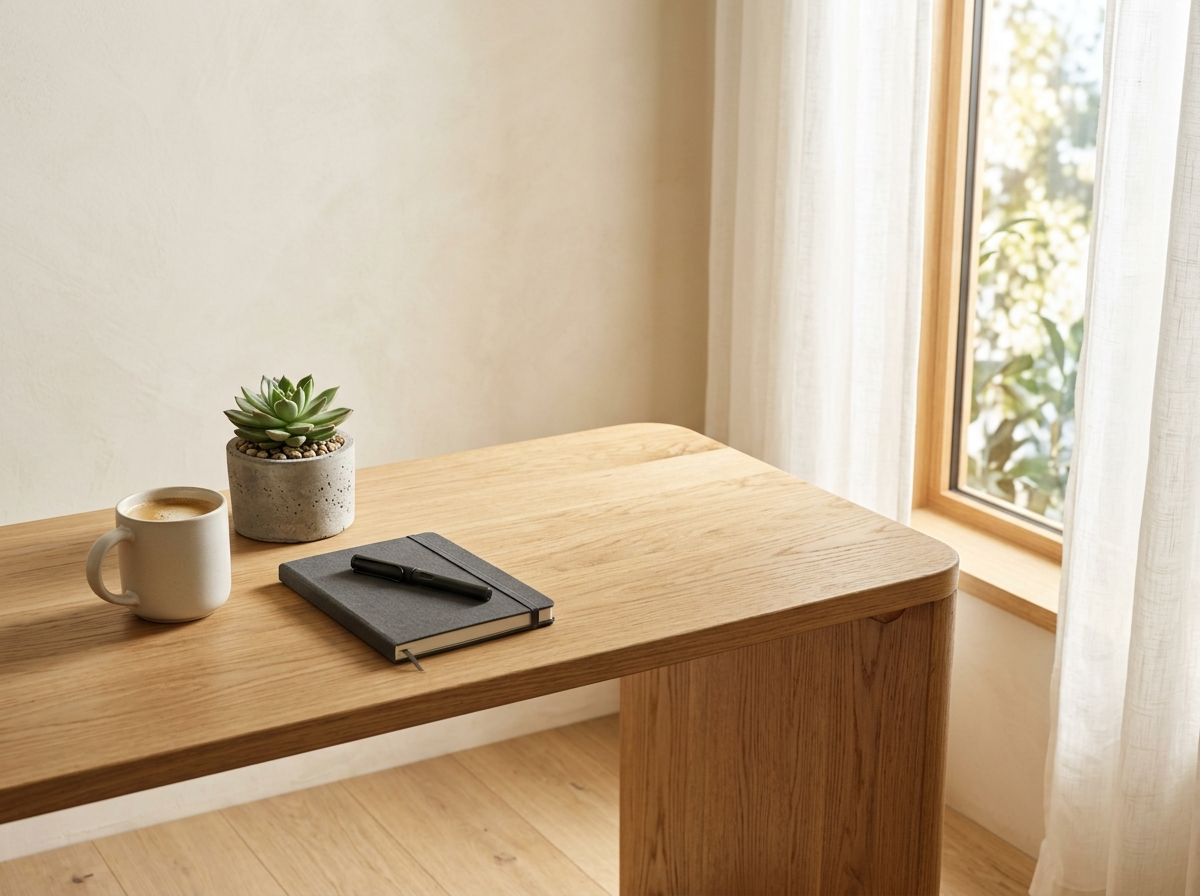
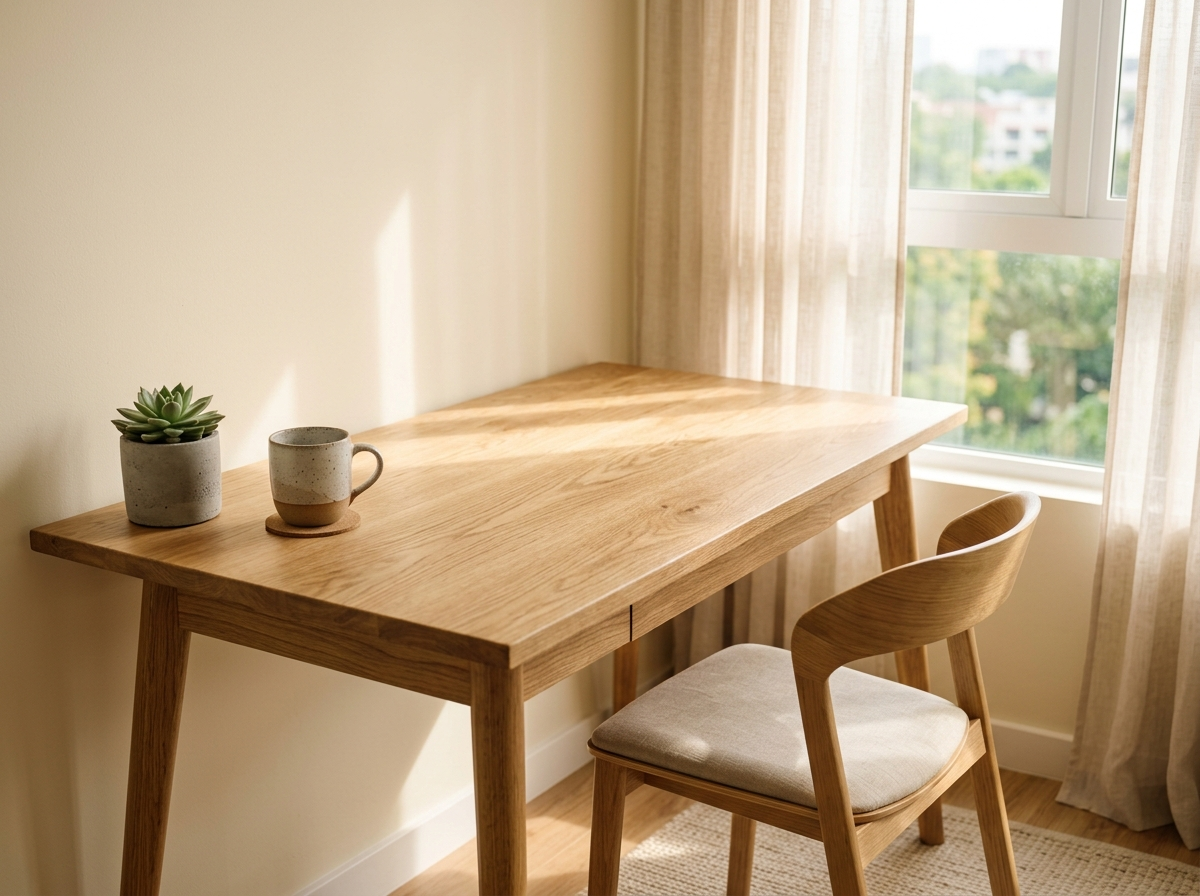
fix(mockup): clean desk background without notebook, angle perspective adjustment, ceiling safe margin scale algorithm

diff --git a/src/services/roomMockupRenderer.js b/src/services/roomMockupRenderer.js
@@ -6,30 +6,31 @@ const crypto = require('crypto');
 
 /**
  * Cấu hình 2 Bối Cảnh Chuẩn Vàng Cố Định Trong Render Server (Zero-Config)
- * - Tường phòng khách: Mảng tường trống phía trên sofa kem cong, ánh sáng từ cửa sổ lớn bên trái.
- * - Mặt bàn làm việc: Bàn gỗ sồi Scandinavian, ánh sáng từ cửa sổ bên phải, đáy khung tựa trên mặt bàn.
+ * - Tường phòng khách: Mảng tường trống phía trên sofa kem cong, thuật toán tự động khống chế trần nhà.
+ * - Mặt bàn làm việc: Bàn gỗ sồi Scandinavian, mặt bàn sạch không có sổ, góc xoay phối cảnh ăn khớp thớ gỗ.
  */
 const PRESETS = {
     wall: {
         bgPath: path.join(__dirname, '../assets/backgrounds/wall_clean.jpg'),
-        anchorXRatio: 0.50, // Căn giữa phòng khách
-        anchorYRatio: 0.29, // Treo thông thoáng phía trên sofa (cách sofa 65px)
-        maxWRatio: 0.36,    // Chiều rộng tối đa 36% ảnh nền
-        maxHRatio: 0.42,    // Chiều cao tối đa 42% ảnh nền
-        shadowDx: 12,       // Ánh sáng từ cửa sổ lớn bên trái
+        minCeilingMargin: 150, // Khoảng cách trần nhà an toàn (mép trên tranh luôn >= 150px)
+        maxSofaMargin: 520,    // Khoảng cách an toàn lưng ghế sofa (mép dưới tranh luôn <= 520px)
+        maxSafeWidth: 420,     // Chiều rộng tối đa an toàn giữa cửa sổ và cây cảnh
+        anchorXRatio: 0.50,    // Chính giữa bề ngang phòng khách
+        shadowDx: 12,          // Ánh sáng tự nhiên từ cửa sổ lớn bên trái
         shadowDy: 18,
-        shadowBlur: 24,
+        shadowBlur: 20,
         shadowOpacity: 0.35
     },
     desk: {
         bgPath: path.join(__dirname, '../assets/backgrounds/desk_clean.jpg'),
-        anchorXRatio: 0.48, // Nằm giữa mặt bàn
-        bottomYRatio: 0.64, // Đáy khung tựa lùi sâu vào giữa mặt bàn gỗ sồi
-        maxWRatio: 0.24,    // Tỷ lệ khung để bàn thanh lịch (24% ảnh)
-        maxHRatio: 0.40,    // Chiều cao tối đa khung để bàn
-        shadowDx: -10,      // Ánh sáng từ cửa sổ bên phải
+        anchorXRatio: 0.44,    // Đặt trên mặt bàn gỗ sồi bên cạnh chậu sen đá
+        bottomYRatio: 0.54,    // Đáy khung chạm mặt bàn gỗ sồi (54% chiều cao ảnh)
+        maxSafeWidth: 220,     // Khổ khung để bàn thanh lịch vừa vặn
+        maxSafeHeight: 280,    // Chiều cao tối đa khung để bàn
+        angleDeg: -3.2,        // Góc xoay phối cảnh ăn khớp chiều nghiêng thớ gỗ mặt bàn
+        shadowDx: -8,          // Ánh sáng từ cửa sổ ban công bên phải
         shadowDy: 14,
-        shadowBlur: 18,
+        shadowBlur: 16,
         shadowOpacity: 0.38
     }
 };
@@ -78,12 +79,6 @@ class RoomMockupRenderer {
 
     /**
      * Dựng phối cảnh tranh + khung lên bối cảnh phòng khách hoặc bàn làm việc
-     * @param {Object} params
-     * @param {string} [params.context] 'wall' hoặc 'desk'
-     * @param {string|Buffer} [params.background_url] Ảnh nền tùy biến (nếu có)
-     * @param {string|Buffer} [params.frame_url] Ảnh phôi khung viền PNG trong suốt chất lượng cao
-     * @param {string|Buffer} params.artwork_base64 Ảnh canvas cá nhân hóa của khách
-     * @param {Object} [params.transform] Cấu hình tùy biến thêm (nếu có)
      */
     async renderMockup({ context = 'wall', background_url, frame_url, artwork_base64, transform = {} }) {
         const presetKey = (context === 'desk') ? 'desk' : 'wall';
@@ -135,31 +130,68 @@ class RoomMockupRenderer {
             framedArtworkBuffer = await sharp(artworkBuffer).png().toBuffer();
         }
 
-        // 4. Thuật toán Đa Kích Thước Bounding Box (Aspect-Ratio Aware Scaling)
-        // Cân trọn vẹn: Khổ dọc (2:3, 3:4), Khổ ngang (3:2, 4:3, 16:9), Khổ vuông (1:1)
+        // 4. Thuật toán Đa Kích Thước Bounding Box & Chống Đụng Trần Tuyệt Đối
         const framedMeta = await sharp(framedArtworkBuffer).metadata();
         const aspect = framedMeta.width / (framedMeta.height || 1);
 
-        const maxW = Math.round(bgW * preset.maxWRatio);
-        const maxH = Math.round(bgH * preset.maxHRatio);
+        let finalW, finalH, left, top;
 
-        let finalW, finalH;
-        if (aspect >= 1) {
-            // Tranh ngang hoặc vuông: ưu tiên bung chiều rộng trong maxW, khống chế maxH
-            finalW = maxW;
-            finalH = Math.round(finalW / aspect);
-            if (finalH > maxH) {
-                finalH = maxH;
-                finalW = Math.round(finalH * aspect);
+        if (presetKey === 'wall') {
+            // Bối cảnh tường phòng khách: Khống chế nghiêm ngặt khoảng an toàn trần nhà
+            const minCeiling = preset.minCeilingMargin || 150;
+            const maxSofa = preset.maxSofaMargin || 520;
+            const maxSafeH = maxSofa - minCeiling; // 370px
+            const maxSafeW = preset.maxSafeWidth || 420;
+
+            let targetW = maxSafeW;
+            let targetH = Math.round(targetW / aspect);
+
+            // Nếu chiều cao vượt quá khoảng an toàn trần-sofa: scale nhỏ lại theo chiều cao
+            if (targetH > maxSafeH) {
+                targetH = maxSafeH;
+                targetW = Math.round(targetH * aspect);
+            }
+            // Nếu chiều rộng vượt quá: scale nhỏ lại theo chiều rộng
+            if (targetW > maxSafeW) {
+                targetW = maxSafeW;
+                targetH = Math.round(targetW / aspect);
+            }
+
+            finalW = targetW;
+            finalH = targetH;
+
+            // Tâm cân đối chính giữa khoảng cách trần và sofa
+            const centerY = Math.round((minCeiling + maxSofa) / 2); // 335px
+            const centerX = Math.round(bgW * preset.anchorXRatio);  // 512px
+
+            left = Math.round(centerX - (finalW / 2));
+            top = Math.round(centerY - (finalH / 2));
+
+            // Chốt an toàn kép: Luôn đảm bảo top >= minCeiling
+            if (top < minCeiling) {
+                top = minCeiling;
             }
         } else {
-            // Tranh dọc: ưu tiên bung chiều cao trong maxH, khống chế maxW
-            finalH = maxH;
-            finalW = Math.round(finalH * aspect);
-            if (finalW > maxW) {
-                finalW = maxW;
+            // Bối cảnh bàn làm việc: Khung để bàn nhỏ xinh, tựa trên mặt bàn gỗ sồi
+            const maxSafeW = preset.maxSafeWidth || 220;
+            const maxSafeH = preset.maxSafeHeight || 280;
+
+            finalW = maxSafeW;
+            finalH = Math.round(finalW / aspect);
+
+            if (finalH > maxSafeH) {
+                finalH = maxSafeH;
+                finalW = Math.round(finalH * aspect);
+            }
+            if (finalW > maxSafeW) {
+                finalW = maxSafeW;
                 finalH = Math.round(finalW / aspect);
             }
+
+            const bottomY = Math.round(bgH * preset.bottomYRatio);
+            const anchorX = Math.round(bgW * preset.anchorXRatio);
+            left = Math.round(anchorX - (finalW / 2));
+            top = Math.round(bottomY - finalH);
         }
 
         // Co giãn khung tranh thành phẩm bằng thuật toán nội suy Lanczos3 siêu sắc nét
@@ -168,36 +200,53 @@ class RoomMockupRenderer {
             .png()
             .toBuffer();
 
-        // 5. Xác định tọa độ đặt tranh
-        let left, top;
-        if (preset.bottomYRatio) {
-            // Bối cảnh bàn: Neo cạnh đáy tựa vững vàng trên mặt bàn
-            const bottomY = Math.round(bgH * preset.bottomYRatio);
-            const anchorX = Math.round(bgW * preset.anchorXRatio);
-            left = Math.round(anchorX - (finalW / 2));
-            top = Math.round(bottomY - finalH);
-        } else {
-            // Bối cảnh tường: Căn giữa mảng tường trên sofa
-            const anchorX = Math.round(bgW * preset.anchorXRatio);
-            const anchorY = Math.round(bgH * preset.anchorYRatio);
-            left = Math.round(anchorX - (finalW / 2));
-            top = Math.round(anchorY - (finalH / 2));
+        // Áp dụng góc xoay phối cảnh (Angle Adjustment) nếu có
+        let actualW = finalW;
+        let actualH = finalH;
+
+        if (preset.angleDeg) {
+            scaledFramed = await sharp(scaledFramed)
+                .rotate(preset.angleDeg, { background: { r: 0, g: 0, b: 0, alpha: 0 } })
+                .png()
+                .toBuffer();
+
+            const rotatedMeta = await sharp(scaledFramed).metadata();
+            actualW = rotatedMeta.width;
+            actualH = rotatedMeta.height;
+
+            // Điều chỉnh lại left, top sau khi xoay để tâm giữ nguyên
+            left = left - Math.round((actualW - finalW) / 2);
+            top = top - Math.round((actualH - finalH) / 2);
         }
 
         // Ràng buộc không tràn khỏi mép ảnh nền
-        left = Math.max(10, Math.min(bgW - finalW - 10, left));
-        top = Math.max(10, Math.min(bgH - finalH - 10, top));
+        left = Math.max(10, Math.min(bgW - actualW - 10, left));
+        top = Math.max(10, Math.min(bgH - actualH - 10, top));
 
-        // 6. Tạo bóng đổ tự nhiên đa tầng (Soft Realistic Drop-Shadow)
-        const shadowPadding = 40;
+        // 5. Tạo bóng đổ tự nhiên đa tầng (Soft Realistic Drop-Shadow xoay theo phối cảnh)
+        const shadowPadding = 50;
+        const svgW = actualW + shadowPadding * 2;
+        const svgH = actualH + shadowPadding * 2;
+        const centerX = svgW / 2;
+        const centerY = svgH / 2;
+        const angle = preset.angleDeg || 0;
+
+        const rectX = centerX + preset.shadowDx - (finalW / 2);
+        const rectY = centerY + preset.shadowDy - (finalH / 2);
+        const rotCenterX = centerX + preset.shadowDx;
+        const rotCenterY = centerY + preset.shadowDy;
+
         const shadowSvg = Buffer.from(`
-            <svg width="${finalW + shadowPadding * 2}" height="${finalH + shadowPadding * 2}">
+            <svg width="${svgW}" height="${svgH}" xmlns="http://www.w3.org/2000/svg">
                 <defs>
-                    <filter id="wallShadow" x="-30%" y="-30%" width="170%" height="170%">
-                        <feDropShadow dx="${preset.shadowDx}" dy="${preset.shadowDy}" stdDeviation="${preset.shadowBlur}" flood-color="#000000" flood-opacity="${preset.shadowOpacity}"/>
+                    <filter id="softShadow" x="-50%" y="-50%" width="200%" height="200%">
+                        <feGaussianBlur in="SourceGraphic" stdDeviation="${preset.shadowBlur}"/>
                     </filter>
                 </defs>
-                <rect x="${shadowPadding}" y="${shadowPadding}" width="${finalW}" height="${finalH}" rx="3" fill="black" filter="url(#wallShadow)"/>
+                <rect x="${rectX}" y="${rectY}" width="${finalW}" height="${finalH}" rx="4"
+                      transform="rotate(${angle}, ${rotCenterX}, ${rotCenterY})"
+                      fill="rgba(0, 0, 0, ${preset.shadowOpacity})"
+                      filter="url(#softShadow)"/>
             </svg>
         `);
 
@@ -209,13 +258,13 @@ class RoomMockupRenderer {
             { input: scaledFramed, top: top, left: left }
         ];
 
-        // 7. Hòa trộn ghép đè lên ảnh nền và nén xuất file JPEG chất lượng cao
+        // 6. Hòa trộn ghép đè lên ảnh nền và nén xuất file JPEG chất lượng cao
         const finalComposite = await sharp(bgBuffer)
             .composite(compositeLayers)
             .jpeg({ quality: 92, mozjpeg: true })
             .toBuffer();
 
-        // 8. Lưu file thành phẩm vào thư mục lưu trữ prints
+        // 7. Lưu file thành phẩm vào thư mục lưu trữ prints
         const hash = crypto.randomBytes(8).toString('hex');
         const filename = `mockup_room_${Date.now()}_${hash}.jpg`;
         const outputPath = path.join(this.outputDir, filename);
